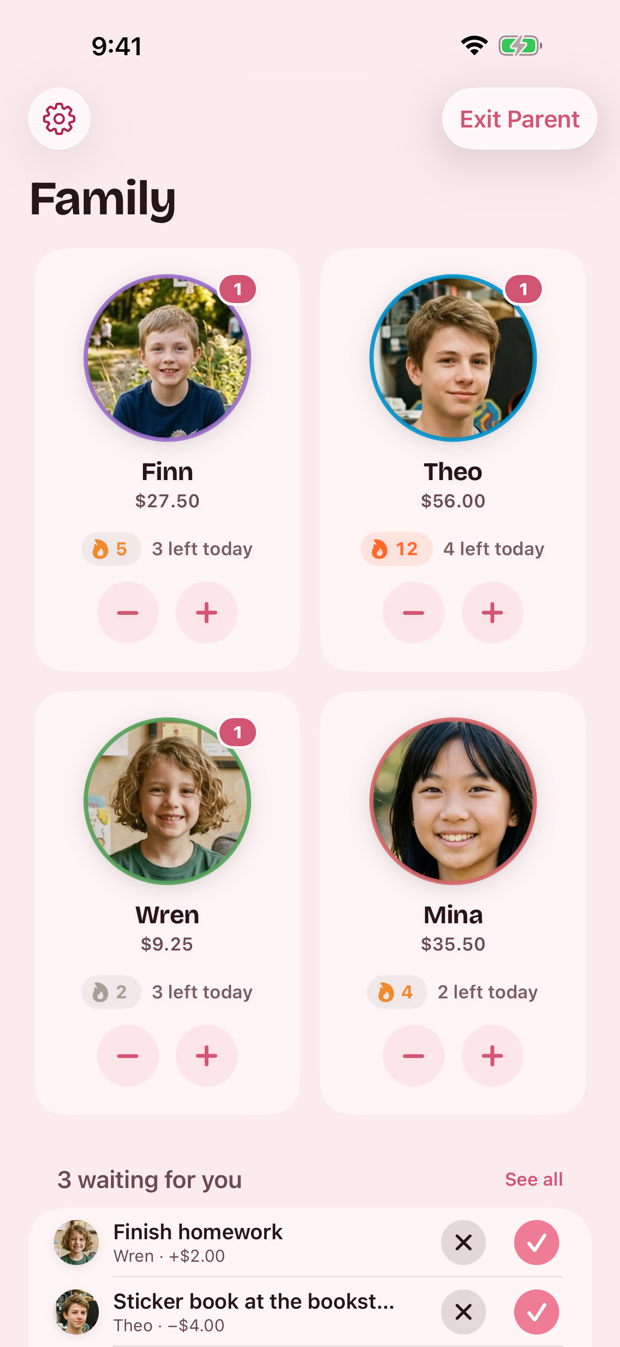
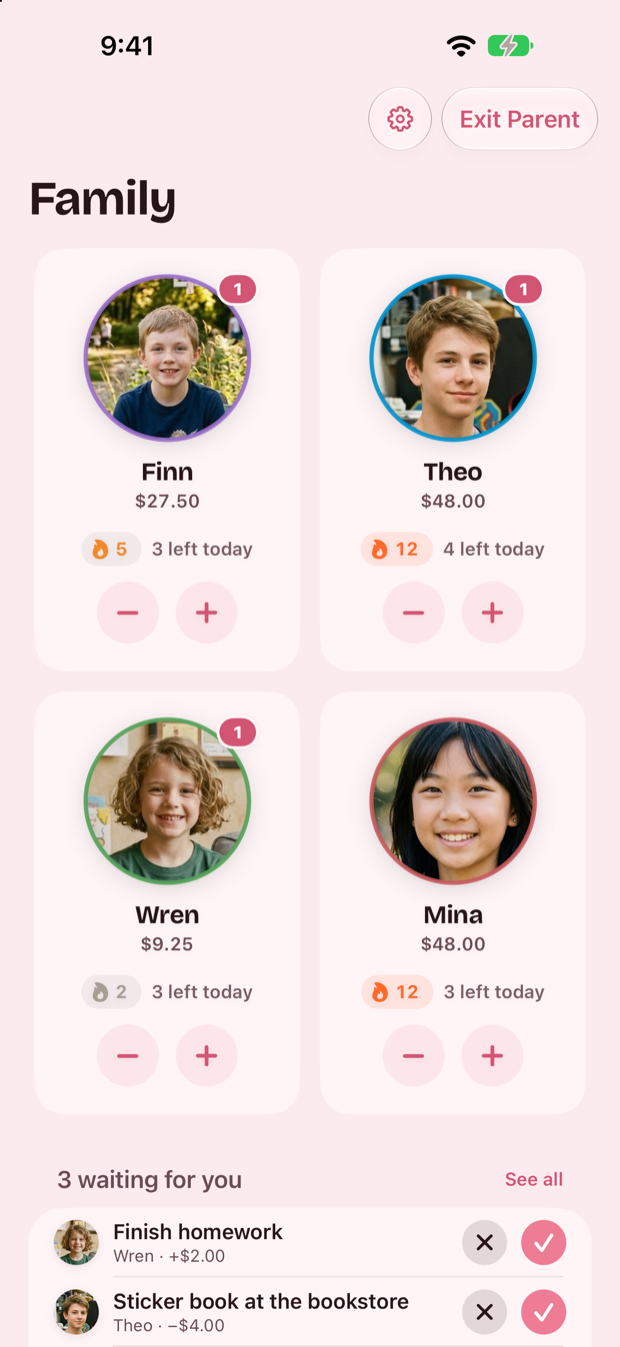
Screenshots from build 66: Family screen, kid pages, goal, chore and approval crops

diff --git a/index.html b/index.html
@@ -209,15 +209,15 @@
 
   <div class="shots">
     <figure>
-      <img src="assets/shot-kid.png" alt="A child's Goals screen in Pig Pal: Theo, with his photo, a $48.00 balance, $18.00 to spend, a New skateboard goal at 60 percent saving $4.00 each Sunday, and rewards in progress.">
-      <figcaption>What a kid sees: money to spend, what they're saving for, rewards to earn.</figcaption>
+      <img src="assets/shot-kid.png" alt="A child's Goals screen in Pig Pal: Theo, with his photo and a $48.00 balance, $8.00 allowance every Sunday, $18.00 money to spend, and a New skateboard goal at $30.00 of $50.00, auto-saving $4.00 each Sunday.">
+      <figcaption>What a kid sees: money to spend, and what they're saving for.</figcaption>
     </figure>
     <figure>
       <img src="assets/shot-parent.png" alt="The Family screen in Pig Pal, a parent's home: cards for Finn, Theo, Wren and Mina with their photos, balances, streaks, chores left today and quick plus and minus buttons, and below them three requests waiting, including Finish homework for Wren and a $4.00 sticker book Theo wants to buy.">
       <figcaption>What a parent sees: everyone at a glance, approvals waiting.</figcaption>
     </figure>
     <figure>
-      <img src="assets/shot-money.png" alt="A child's My money screen in Pig Pal: Mina, with her photo, a $48.00 balance, buttons to ask to add money and ask to buy something, and a history of chores earned, purchases and money saved.">
+      <img src="assets/shot-money.png" alt="A child's My money screen in Pig Pal: Mina, with her photo and a $48.00 balance, $8.00 every Sunday, $20.00 earned this week, a Roller skates goal at $30.00 of $50.00, buttons to ask to add money and ask to buy something, and a history of chores earned, a purchase and money saved.">
       <figcaption>Kids can ask, too: for something to buy, or money to add.</figcaption>
     </figure>
   </div>
@@ -250,23 +250,23 @@
         <p>A kid picks something worth saving for and puts money toward it — or lets part of
           their allowance save itself every week. Saved money stays apart from money to spend,
           so the skateboard fund doesn't quietly turn into sweets.</p>
-        <img src="assets/detail-goal.png" width="1251" height="750"
-          alt="Theo's savings in Pig Pal: $18.00 money to spend with $30.00 saved in goals, and a New skateboard goal at $30.00 of $50.00, 60 percent, auto-saving $4.00 each Sunday.">
+        <img src="assets/detail-goal.png" width="1260" height="930"
+          alt="Theo's savings in Pig Pal: $18.00 money to spend with $30.00 saved in goals, a New skateboard goal at $30.00 of $50.00, 60 percent, auto-saving $4.00 each Sunday, and a row to set up auto-save from allowance.">
       </div>
       <div class="detail">
         <h3>Today's list, with a price on it</h3>
         <p>Every chore carries what it pays and how often it comes round. Tick one off and it's
           done — unless it's marked <em>approval</em>, which holds it until a parent looks.</p>
-        <img src="assets/detail-chores.png" width="1237" height="577"
-          alt="A child's chore list in Pig Pal: Clear dinner dishes $2.00 daily, and Finish homework $2.00 daily needing approval, each with a circle to tick.">
+        <img src="assets/detail-chores.png" width="1260" height="535"
+          alt="A child's chore list in Pig Pal: Make bed $1.00 daily, and Clear dinner dishes $2.00 daily needing approval, each with a circle to tick.">
       </div>
       <div class="detail">
         <h3>Nothing moves until you say so</h3>
         <p>Ticked chores — and anything a kid wants to spend on — wait for a parent. One tap says
           yes and the money moves; the other sends it back. Allowance is the one exception: pick
           an amount and a day and it arrives on its own.</p>
-        <img src="assets/detail-approve.png" width="1251" height="841"
-          alt="Kofi's page on a parent's phone in Pig Pal: his photo and a $48.00 balance, and under Waiting for you, a $4.00 sticker book at the bookstore he wants to buy, with a cross and a tick button.">
+        <img src="assets/detail-approve.png" width="1260" height="1170"
+          alt="Kofi's page on a parent's phone in Pig Pal: his photo and a $48.00 balance, Add and Subtract buttons, and under Waiting for you, a $4.00 sticker book at the bookstore he wants to buy, with a cross and a tick button.">
       </div>
     </div>
 

diff --git a/BRIEF.md b/BRIEF.md
@@ -6,8 +6,8 @@ below rather than describing the app from memory. A generated site that invents 
 worse than no site.
 
 **The app is the source of truth.** When this file, a screenshot and the app disagree, the app
-wins. The parent home screen (`shot-parent.png`) is from build 62; the rest are from build 50 and
-show screens that haven't changed in ways the site depends on.
+wins. The phone shots and the goal, chore and approval crops are from build 66 (1.2); the rewards
+crop is still build 50.
 
 **Write for parents.** Parents install, run and pay for Pig Pal; kids use their own screen inside
 it. Address the site to the parent ("your kids", "your family"), never to children. Apple's App
@@ -154,7 +154,7 @@ the backup is replaced.
 | File | What it is |
 |---|---|
 | `shot-kid.png` | Kid's Goals screen (Theo). Also the `og:image`. 620px wide. |
-| `shot-parent.png` | The Family screen, build 62 (Finn, Theo, Wren, Mina), requests waiting below. 620px wide. |
+| `shot-parent.png` | The Family screen (Finn, Theo, Wren, Mina), requests waiting below. 620px wide. |
 | `shot-money.png` | Kid's My money screen: ask to add money, ask to buy, history (Mina). 620px wide. |
 | `detail-rewards.png` | Crop: the three reward cards (Finn, Wren), status bar cut off. 620px wide. |
 | `detail-goal.png` | Crop: money to spend and a savings goal with auto-save. |
@@ -162,11 +162,11 @@ the backup is replaced.
 | `detail-approve.png` | Crop: a kid's page on the parent's phone (Kofi) with a request waiting. |
 | `shot-gate.png`, `shot-gate-ipad.png` | Old gate captures. Not used; the iPad one is for when iPad ships. |
 
-Phone shots are resized to 620px wide and have the Dynamic Island filled with the status-bar
-pink — shown without a device frame, the black pill is the loudest thing on the page. Leave the
-App Store Connect captures as they are. Crops are cut from the full-resolution captures
-(1320×2868) and left at that scale. The captures live in
-`PigPay/incoming/ASC/shots/build50_shots/`, with dark-mode versions in `build50-dark/`.
+Phone shots are resized to 620px wide, with no Dynamic Island: shown without a device frame, the
+black pill is the loudest thing on the page. Current simulators leave it out of `simctl`
+screenshots; older captures had it filled with the status-bar pink. Crops are cut from the
+full-resolution captures (1320×2868) and left at that scale. The captures live in
+`PigPay/incoming/website/2026-11-11 build 66/`.
 
 The site shows one household through most of the story (Finn, Theo, Wren), with Mina and Kofi
 from two other families. Keep it to a few coherent families rather than
@@ -180,10 +180,20 @@ says it reason-first, because "we generated these" next to app screenshots can r
 AI in this app", which there isn't. If the fixtures change, that line has to stay true. Face
 crops for the fixtures are 512×512 head-and-shoulders, in `PigPay/incoming/ASC/faces/`.
 
-Captures come from the app's preview harness on the iPhone 17 Pro Max simulator (the App
-Store's 6.9" size), and the 13-inch iPad Pro once iPad ships. Screen names change between builds — check the
-harness rather than this file. `shot-parent.png` is from build 62; the other shots are still
-build 50. Build 62 captures are in `PigPay/incoming/website/2026-11-02 build 62/`. Cold launches can render black; launch twice and wait.
+Captures come from the app's preview harness (`SIMCTL_CHILD_PREVIEW_SCREEN`, see the app's
+CLAUDE.md) on a 6.9" simulator (iPhone 17 or 18 Pro Max, 1320×2868), and the 13-inch iPad Pro
+once iPad ships. Screen names change between builds — check the harness rather than this file.
+The round from build 66 used `parentview` (Family screen), `parentview` + `PREVIEW_KID` (a kid's
+page), and `kidview` + `PREVIEW_KID_TAB=goals|money`.
+
+How the family was staged: hammer menu ▸ **Skip** loads the demo family (Maya, Liam, Olive). Then,
+with the app stopped, rewrite the `pigpay:v1` blob through `simctl spawn … defaults` — rename to
+Finn, Theo, Wren, add Mina (`k_mina`, a copy of Theo's history), point `photoFilename` at faces
+copied into `Documents/KidPhotos/` — and set `subscriptionTier` to `family` plus
+`pigpay:dev.tierOverride` so nothing shows a lock. Kofi's crop came from a one-kid copy of the
+same blob. Override the status bar first (`simctl status_bar … --time 9:41 --batteryLevel 100`).
+The harness never saves, so edits made in it don't stick. After the first launch the simulator
+often renders blank: reboot it before each capture.
 
 A capture taken with the simulator rotated to landscape comes back in the portrait pixel frame —
 `simctl io screenshot` ignores the rotation. Fix it afterwards with `sips -r 270`.
